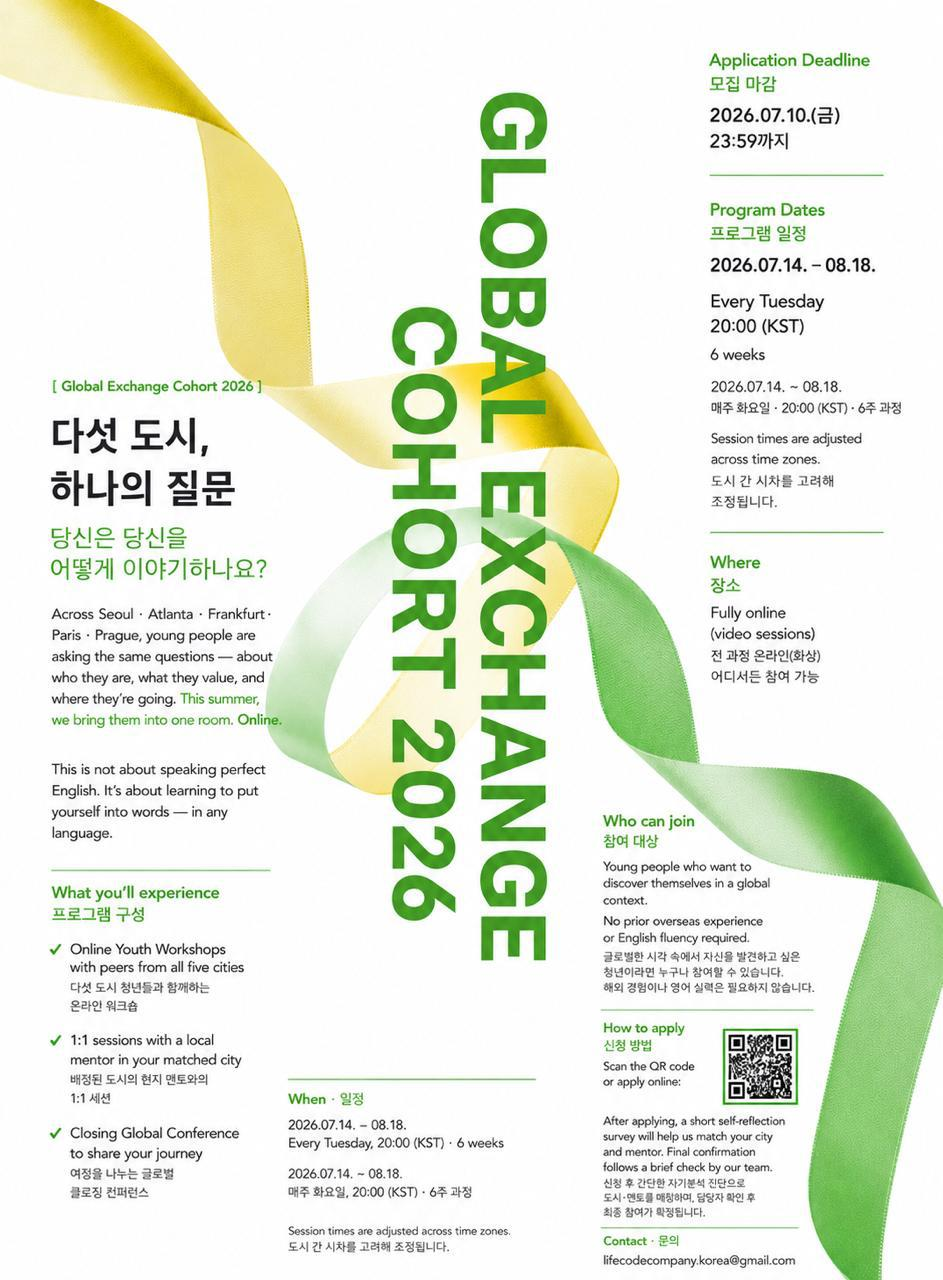
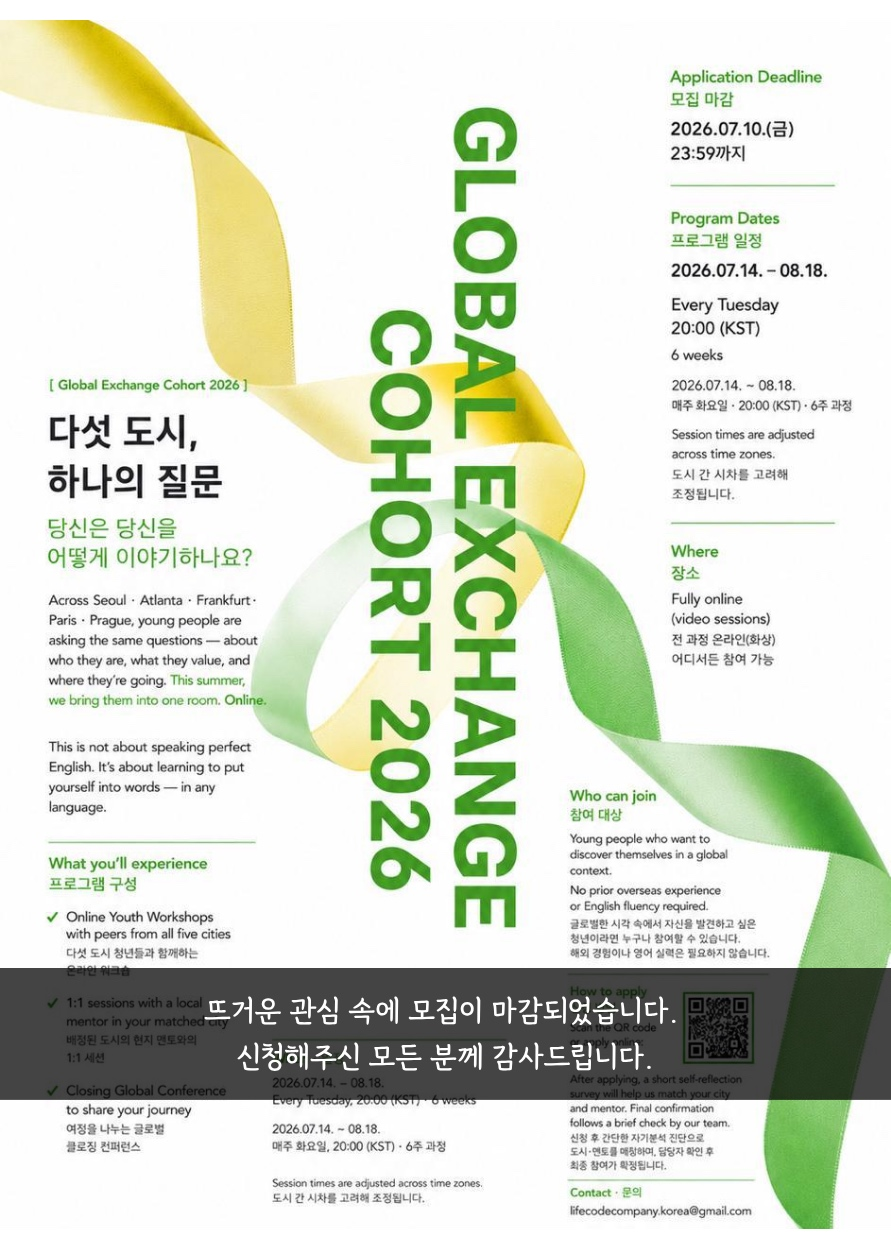
팝업 개편 및 히어로 문구·톤 조정
팝업
- 안내 문구를 이미지에 포함된 형태로 교체 (popup-01, popup-02)
- 딤 배경 위 중앙 정렬, 두 팝업을 겹쳐 쌓아 하나씩 닫도록 변경
- 배경 클릭·ESC로 닫기, 열린 팝업이 없으면 딤 배경 제거
- 작은 화면에서 스크롤 없이 한 화면에 들어오도록 높이 제한(dvh)

히어로
- 배경 오버레이 농도 상향
- 문구를 "글로벌 인재 양성을 위해 / 자기 발견과 주체적 성장을 지원합니다"로 교체

스타일시트 캐시 버전 v5 → v7

diff --git a/index.html b/index.html
@@ -29,7 +29,7 @@
   <link
     href="https://fonts.googleapis.com/css2?family=Cormorant+Garamond:ital,wght@0,500;1,400;1,500;1,600&family=Inter:wght@400;500;600;700;800&family=Italiana&family=Italianno&display=swap"
     rel="stylesheet" />
-  <link rel="stylesheet" href="assets/css/styles.css?v=5" />
+  <link rel="stylesheet" href="assets/css/styles.css?v=7" />
   <script type="application/ld+json">
   {
     "@context": "https://schema.org",
@@ -127,8 +127,8 @@
     <div class="container hero-photo__inner">
       <p class="hero-photo__eyebrow">Life Code Company는</p>
       <h1 class="hero-photo__title">
-        청년의 자기 발견과 주체적 성장을 위해<br />
-        <strong>&ldquo;라이프 컨설팅 &amp; 멘토링&rdquo;</strong> 을 실천합니다.
+        글로벌 인재 양성을 위해<br />
+        <strong>자기 발견과 주체적 성장</strong>을 지원합니다.
       </h1>
     </div>
 
@@ -432,33 +432,20 @@
   </footer>
 
   <!-- ============== NOTICE POPUPS ============== -->
-  <div class="popup-layer" id="popupLayer">
-    <div class="popup" data-key="ge-cohort-2026" role="dialog" aria-modal="false" aria-labelledby="popupTitle1" hidden>
+  <div class="popup-layer" id="popupLayer" hidden>
+    <div class="popup" data-key="ge-cohort-2026" role="dialog" aria-modal="true" aria-label="Global Exchange Cohort 2026 모집 마감" hidden>
       <div class="popup__body">
-        <div class="popup__head">
-          <h2 class="popup__title" id="popupTitle1">Global Exchange Cohort 2026 마감</h2>
-        </div>
-        <img class="popup__img" src="assets/images/popup-01.jpeg" alt="Global Exchange Cohort 2026 포스터" />
+        <img class="popup__img" src="assets/images/popup-01.jpeg" alt="Global Exchange Cohort 2026 포스터 — 뜨거운 관심 속에 모집이 마감되었습니다. 신청해주신 모든 분께 감사드립니다." />
       </div>
       <div class="popup__bar">
         <label class="popup__today"><input type="checkbox" /> 오늘 하루 이 창을 띄우지 않음</label>
-        <button type="button" class="popup__close">✕ 닫음</button>
+        <button type="button" class="popup__close">✕ 닫기</button>
       </div>
     </div>
 
-    <div class="popup popup--right" data-key="workbook-soldout" role="dialog" aria-modal="false" aria-labelledby="popupTitle2" hidden>
+    <div class="popup" data-key="workbook-soldout" role="dialog" aria-modal="true" aria-label="L.I.F.E Discovery Workbook 완판 안내" hidden>
       <div class="popup__body">
-        <div class="popup__head">
-          <span class="popup__badge">SOLD OUT</span>
-          <h2 class="popup__title" id="popupTitle2">L.I.F.E Discovery Workbook 완판 안내</h2>
-          <p class="popup__desc">
-            100부가 전량 소진되었습니다.<br />
-            보내주신 깊은 관심과 성원에 진심으로 감사드립니다.<br /><br />
-            미처 함께하지 못하신 분들께는 너른 양해를 부탁드리며,<br />
-            10월 초, 보다 정성껏 준비하여 재출간으로 다시 인사드리겠습니다.
-          </p>
-        </div>
-        <img class="popup__img" src="assets/images/popup-02.jpeg" alt="L.I.F.E Discovery Workbook" />
+        <img class="popup__img" src="assets/images/popup-02.jpeg" alt="L.I.F.E Discovery Workbook 완판 안내 — 100부가 전량 소진되었습니다. 10월 초 재출간으로 다시 인사드리겠습니다." />
       </div>
       <div class="popup__bar">
         <label class="popup__today"><input type="checkbox" /> 오늘 하루 이 창을 띄우지 않음</label>
@@ -470,14 +457,46 @@
   <script>
     (function () {
       var today = new Date().toISOString().slice(0, 10);
-      document.querySelectorAll('#popupLayer .popup').forEach(function (p) {
-        var key = 'lccPopupHide_' + p.dataset.key;
-        if (localStorage.getItem(key) !== today) p.hidden = false;
-        p.querySelector('.popup__close').addEventListener('click', function () {
-          if (p.querySelector('.popup__today input').checked) localStorage.setItem(key, today);
-          p.hidden = true;
+      var layer = document.getElementById('popupLayer');
+
+      // 열려 있는 팝업 중 맨 앞장만 조작 가능하게 두고, 나머지는 뒤에 겹쳐 놓는다.
+      // 열린 게 하나도 없으면 딤 배경까지 걷어낸다.
+      function syncStack() {
+        var open = Array.prototype.slice.call(layer.querySelectorAll('.popup:not([hidden])'));
+        open.forEach(function (p, i) {
+          p.classList.toggle('popup--front', i === 0);
+          p.classList.toggle('popup--back', i !== 0);
+          p.setAttribute('aria-hidden', i === 0 ? 'false' : 'true');
         });
+        layer.hidden = open.length === 0;
+        document.body.style.overflow = layer.hidden ? '' : 'hidden';
+      }
+
+      // 한 번에 맨 앞장 하나씩만 닫는다
+      function closeFront() {
+        var front = layer.querySelector('.popup:not([hidden])');
+        if (!front) return;
+        if (front.querySelector('.popup__today input').checked) {
+          localStorage.setItem('lccPopupHide_' + front.dataset.key, today);
+        }
+        front.hidden = true;
+        syncStack();
+      }
+
+      layer.querySelectorAll('.popup').forEach(function (p) {
+        if (localStorage.getItem('lccPopupHide_' + p.dataset.key) !== today) p.hidden = false;
+        p.querySelector('.popup__close').addEventListener('click', closeFront);
       });
+
+      // 어두운 배경 클릭 / ESC — 팝업 내부 클릭은 제외
+      layer.addEventListener('click', function (e) {
+        if (e.target === layer) closeFront();
+      });
+      document.addEventListener('keydown', function (e) {
+        if (e.key === 'Escape' && !layer.hidden) closeFront();
+      });
+
+      syncStack();
     })();
   </script>
 

diff --git a/assets/css/styles.css b/assets/css/styles.css
@@ -1722,7 +1722,7 @@ a.parchive-card:hover .parchive-card__cap strong { color: var(--gold); }
 }
 .hero-photo__overlay {
   position: absolute; inset: 0;
-  background: linear-gradient(180deg, rgba(6,8,12,.55) 0%, rgba(6,8,12,.35) 45%, rgba(6,8,12,.65) 100%);
+  background: linear-gradient(180deg, rgba(6,8,12,.72) 0%, rgba(6,8,12,.58) 45%, rgba(6,8,12,.8) 100%);
 }
 .hero-photo__inner { position: relative; z-index: 1; }
 .hero-photo__eyebrow {
@@ -1807,26 +1807,39 @@ a.parchive-card:hover .parchive-card__cap strong { color: var(--gold); }
    ========================================================= */
 .popup-layer {
   position: fixed;
-  top: 96px; left: 24px; right: 24px;
+  inset: 0;
   z-index: 90;
-  display: flex; gap: 16px; align-items: flex-start;
-  max-height: calc(100vh - 140px);
-  pointer-events: none;
+  display: grid;
+  place-items: center;
+  padding: 16px;
+  background: rgba(10, 14, 20, .62);
+  -webkit-backdrop-filter: blur(2px);
+  backdrop-filter: blur(2px);
 }
+.popup-layer[hidden] { display: none; }
+
+/* 두 팝업을 같은 칸에 겹쳐 쌓는다 — 앞장을 닫으면 뒷장이 올라온다 */
 .popup {
-  flex: 0 0 auto;
-  width: min(400px, calc(100vw - 32px));
-  max-height: calc(100vh - 140px);
+  grid-area: 1 / 1;
   display: flex; flex-direction: column;
+  width: auto;
+  max-width: min(400px, calc(100vw - 32px));
+  min-width: min(280px, calc(100vw - 32px));
   background: var(--paper);
   border: 1px solid var(--line);
-  box-shadow: 0 30px 70px rgba(10,14,20,.3);
-  pointer-events: auto;
+  box-shadow: 0 30px 70px rgba(10,14,20,.45);
+  transition: transform .32s ease, opacity .32s ease;
 }
 .popup[hidden] { display: none; }
-.popup--right { margin-left: auto; }
-@media (max-width: 900px) {
-  .popup--right { margin-left: 0; }
+.popup--front { z-index: 2; }
+.popup--back {
+  z-index: 1;
+  transform: translateY(-18px) scale(.95);
+  opacity: .9;
+  pointer-events: none;
+}
+@media (prefers-reduced-motion: reduce) {
+  .popup { transition: none; }
 }
 .popup__body { overflow-y: auto; }
 .popup__head { padding: 24px 26px 20px; }
@@ -1842,7 +1855,16 @@ a.parchive-card:hover .parchive-card__cap strong { color: var(--gold); }
   font-size: 20px; font-weight: 700; letter-spacing: -.015em;
 }
 .popup__desc { margin: 0; font-size: 13.5px; line-height: 1.75; color: var(--fg-2); }
-.popup__img { display: block; width: 100%; height: auto; }
+/* 이미지가 항상 화면 안에 들어오도록 — 팝업 폭이 이미지 비율을 따라 줄어든다.
+   빼는 값: 레이어 패딩 32 + 하단 바 48 + 뒷장이 위로 삐져나올 자리 24 */
+.popup__img {
+  display: block;
+  margin: 0 auto;
+  width: auto; height: auto;
+  max-width: 100%;
+  max-height: calc(100vh - 104px);
+  max-height: calc(100dvh - 104px);
+}
 .popup__bar {
   display: flex; align-items: center; justify-content: space-between; gap: 12px;
   padding: 12px 16px;
@@ -1860,15 +1882,10 @@ a.parchive-card:hover .parchive-card__cap strong { color: var(--gold); }
   white-space: nowrap;
 }
 .popup__close:hover { color: var(--gold); }
-@media (max-width: 900px) {
-  .popup-layer {
-    top: 84px; left: 16px; right: 16px;
-    max-width: none;
-    flex-direction: column;
-    overflow-y: auto;
-  }
-  .popup { width: 100%; max-height: none; }
-  .popup__body { max-height: 60vh; }
+@media (max-width: 480px) {
+  .popup__bar { padding: 10px 12px; gap: 8px; }
+  .popup__today { font-size: 11.5px; }
+  .popup__close { font-size: 11.5px; }
 }
 
 /* 마키 2열 — 아래 줄은 반대 방향 */

diff --git a/about.html b/about.html
@@ -21,7 +21,7 @@
   <link rel="preconnect" href="https://fonts.gstatic.com" crossorigin />
   <link rel="stylesheet" as="style" crossorigin href="https://cdn.jsdelivr.net/gh/orioncactus/pretendard@v1.3.9/dist/web/static/pretendard.min.css" />
   <link href="https://fonts.googleapis.com/css2?family=Cormorant+Garamond:ital,wght@0,500;1,400;1,500;1,600&family=Inter:wght@400;500;600;700;800&family=Italiana&family=Italianno&display=swap" rel="stylesheet" />
-  <link rel="stylesheet" href="assets/css/styles.css?v=5" />
+  <link rel="stylesheet" href="assets/css/styles.css?v=7" />
 </head>
 <body>
 

diff --git a/contact.html b/contact.html
@@ -21,7 +21,7 @@
   <link rel="preconnect" href="https://fonts.gstatic.com" crossorigin />
   <link rel="stylesheet" as="style" crossorigin href="https://cdn.jsdelivr.net/gh/orioncactus/pretendard@v1.3.9/dist/web/static/pretendard.min.css" />
   <link href="https://fonts.googleapis.com/css2?family=Cormorant+Garamond:ital,wght@0,500;1,400;1,500;1,600&family=Inter:wght@400;500;600;700;800&family=Italiana&family=Italianno&display=swap" rel="stylesheet" />
-  <link rel="stylesheet" href="assets/css/styles.css?v=5" />
+  <link rel="stylesheet" href="assets/css/styles.css?v=7" />
 </head>
 <body>
 

diff --git a/insight-01.html b/insight-01.html
@@ -21,7 +21,7 @@
   <link rel="preconnect" href="https://fonts.gstatic.com" crossorigin />
   <link rel="stylesheet" as="style" crossorigin href="https://cdn.jsdelivr.net/gh/orioncactus/pretendard@v1.3.9/dist/web/static/pretendard.min.css" />
   <link href="https://fonts.googleapis.com/css2?family=Cormorant+Garamond:ital,wght@0,500;1,400;1,500;1,600&family=Inter:wght@400;500;600;700;800&family=Italiana&family=Italianno&display=swap" rel="stylesheet" />
-  <link rel="stylesheet" href="assets/css/styles.css?v=5" />
+  <link rel="stylesheet" href="assets/css/styles.css?v=7" />
 </head>
 <body>
 

diff --git a/insight-02.html b/insight-02.html
@@ -21,7 +21,7 @@
   <link rel="preconnect" href="https://fonts.gstatic.com" crossorigin />
   <link rel="stylesheet" as="style" crossorigin href="https://cdn.jsdelivr.net/gh/orioncactus/pretendard@v1.3.9/dist/web/static/pretendard.min.css" />
   <link href="https://fonts.googleapis.com/css2?family=Cormorant+Garamond:ital,wght@0,500;1,400;1,500;1,600&family=Inter:wght@400;500;600;700;800&family=Italiana&family=Italianno&display=swap" rel="stylesheet" />
-  <link rel="stylesheet" href="assets/css/styles.css?v=5" />
+  <link rel="stylesheet" href="assets/css/styles.css?v=7" />
 </head>
 <body>
 

diff --git a/insight-03.html b/insight-03.html
@@ -21,7 +21,7 @@
   <link rel="preconnect" href="https://fonts.gstatic.com" crossorigin />
   <link rel="stylesheet" as="style" crossorigin href="https://cdn.jsdelivr.net/gh/orioncactus/pretendard@v1.3.9/dist/web/static/pretendard.min.css" />
   <link href="https://fonts.googleapis.com/css2?family=Cormorant+Garamond:ital,wght@0,500;1,400;1,500;1,600&family=Inter:wght@400;500;600;700;800&family=Italiana&family=Italianno&display=swap" rel="stylesheet" />
-  <link rel="stylesheet" href="assets/css/styles.css?v=5" />
+  <link rel="stylesheet" href="assets/css/styles.css?v=7" />
 </head>
 <body>
 

diff --git a/insight-04.html b/insight-04.html
@@ -21,7 +21,7 @@
   <link rel="preconnect" href="https://fonts.gstatic.com" crossorigin />
   <link rel="stylesheet" as="style" crossorigin href="https://cdn.jsdelivr.net/gh/orioncactus/pretendard@v1.3.9/dist/web/static/pretendard.min.css" />
   <link href="https://fonts.googleapis.com/css2?family=Cormorant+Garamond:ital,wght@0,500;1,400;1,500;1,600&family=Inter:wght@400;500;600;700;800&family=Italiana&family=Italianno&display=swap" rel="stylesheet" />
-  <link rel="stylesheet" href="assets/css/styles.css?v=5" />
+  <link rel="stylesheet" href="assets/css/styles.css?v=7" />
 </head>
 <body>
 

diff --git a/insight-05.html b/insight-05.html
@@ -21,7 +21,7 @@
   <link rel="preconnect" href="https://fonts.gstatic.com" crossorigin />
   <link rel="stylesheet" as="style" crossorigin href="https://cdn.jsdelivr.net/gh/orioncactus/pretendard@v1.3.9/dist/web/static/pretendard.min.css" />
   <link href="https://fonts.googleapis.com/css2?family=Cormorant+Garamond:ital,wght@0,500;1,400;1,500;1,600&family=Inter:wght@400;500;600;700;800&family=Italiana&family=Italianno&display=swap" rel="stylesheet" />
-  <link rel="stylesheet" href="assets/css/styles.css?v=5" />
+  <link rel="stylesheet" href="assets/css/styles.css?v=7" />
 </head>
 <body>
 

diff --git a/insight-06.html b/insight-06.html
@@ -21,7 +21,7 @@
   <link rel="preconnect" href="https://fonts.gstatic.com" crossorigin />
   <link rel="stylesheet" as="style" crossorigin href="https://cdn.jsdelivr.net/gh/orioncactus/pretendard@v1.3.9/dist/web/static/pretendard.min.css" />
   <link href="https://fonts.googleapis.com/css2?family=Cormorant+Garamond:ital,wght@0,500;1,400;1,500;1,600&family=Inter:wght@400;500;600;700;800&family=Italiana&family=Italianno&display=swap" rel="stylesheet" />
-  <link rel="stylesheet" href="assets/css/styles.css?v=5" />
+  <link rel="stylesheet" href="assets/css/styles.css?v=7" />
 </head>
 <body>
 

diff --git a/insights.html b/insights.html
@@ -21,7 +21,7 @@
   <link rel="preconnect" href="https://fonts.gstatic.com" crossorigin />
   <link rel="stylesheet" as="style" crossorigin href="https://cdn.jsdelivr.net/gh/orioncactus/pretendard@v1.3.9/dist/web/static/pretendard.min.css" />
   <link href="https://fonts.googleapis.com/css2?family=Cormorant+Garamond:ital,wght@0,500;1,400;1,500;1,600&family=Inter:wght@400;500;600;700;800&family=Italiana&family=Italianno&display=swap" rel="stylesheet" />
-  <link rel="stylesheet" href="assets/css/styles.css?v=5" />
+  <link rel="stylesheet" href="assets/css/styles.css?v=7" />
 </head>
 <body>
 

diff --git a/method.html b/method.html
@@ -21,7 +21,7 @@
   <link rel="preconnect" href="https://fonts.gstatic.com" crossorigin />
   <link rel="stylesheet" as="style" crossorigin href="https://cdn.jsdelivr.net/gh/orioncactus/pretendard@v1.3.9/dist/web/static/pretendard.min.css" />
   <link href="https://fonts.googleapis.com/css2?family=Cormorant+Garamond:ital,wght@0,500;1,400;1,500;1,600&family=Inter:wght@400;500;600;700;800&family=Italiana&family=Italianno&display=swap" rel="stylesheet" />
-  <link rel="stylesheet" href="assets/css/styles.css?v=5" />
+  <link rel="stylesheet" href="assets/css/styles.css?v=7" />
 </head>
 <body>
 
